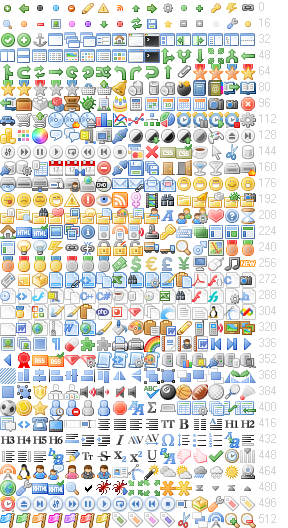
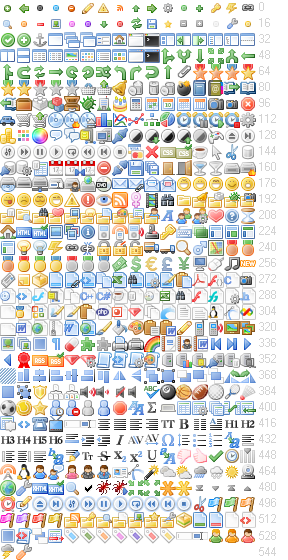
Stuff from Elyon...

diff --git a/FD3/External/Plugins/ProjectManager/Controls/Icons.cs b/FD3/External/Plugins/ProjectManager/Controls/Icons.cs
@@ -102,10 +102,10 @@ namespace ProjectManager.Controls
             HiddenFile = GetResource("Icons.HiddenFile.png");
             BlankFile = GetResource("Icons.BlankPage.png");
             Project = Get(274);
-            ProjectClasspath = Get(508);
-            Classpath = Get("508|15|2|5");
-            ProjectClasspathError = Get("508|6|3|3");
-            ClasspathError = Get("508|6|3|3");
+            ProjectClasspath = Get(274);
+            Classpath = Get(523);
+            ProjectClasspathError = Get("274|6|3|3");
+            ClasspathError = Get("523|6|3|3");
 			Font = Get(408);
 			ImageResource = Get(336);
             ActionScript = GetResource("Icons.ActionscriptFile.png");
